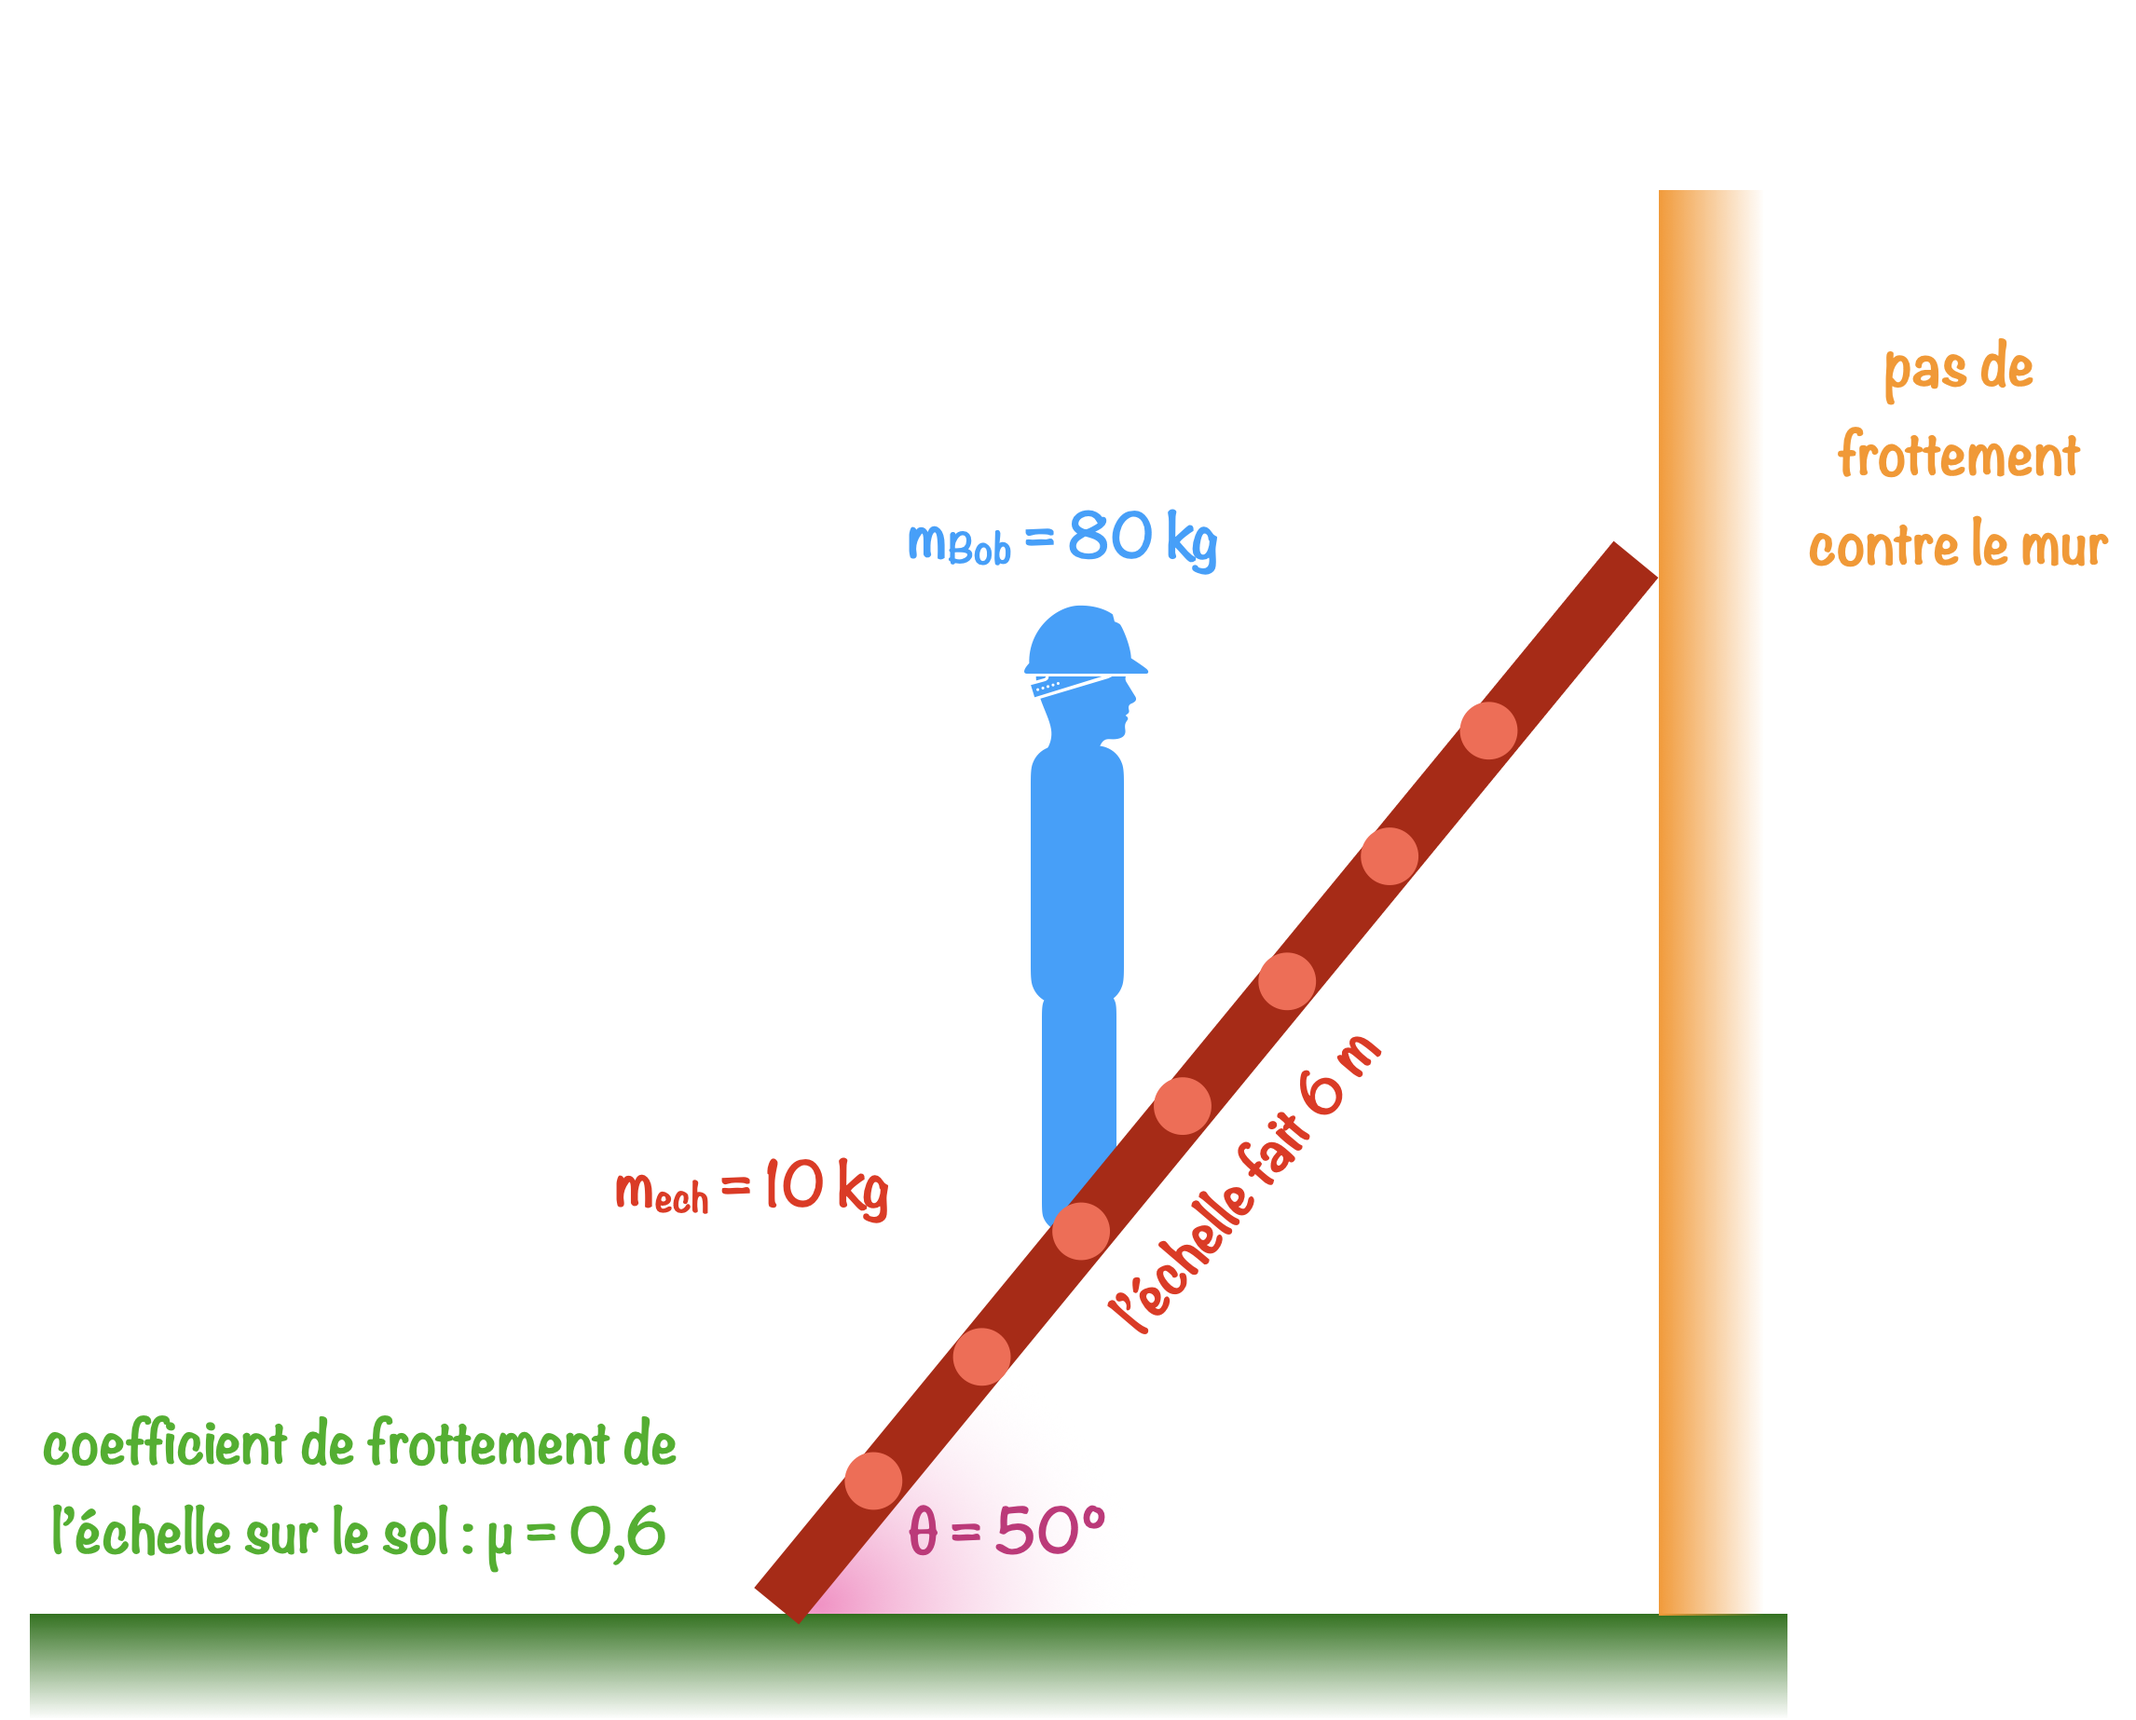
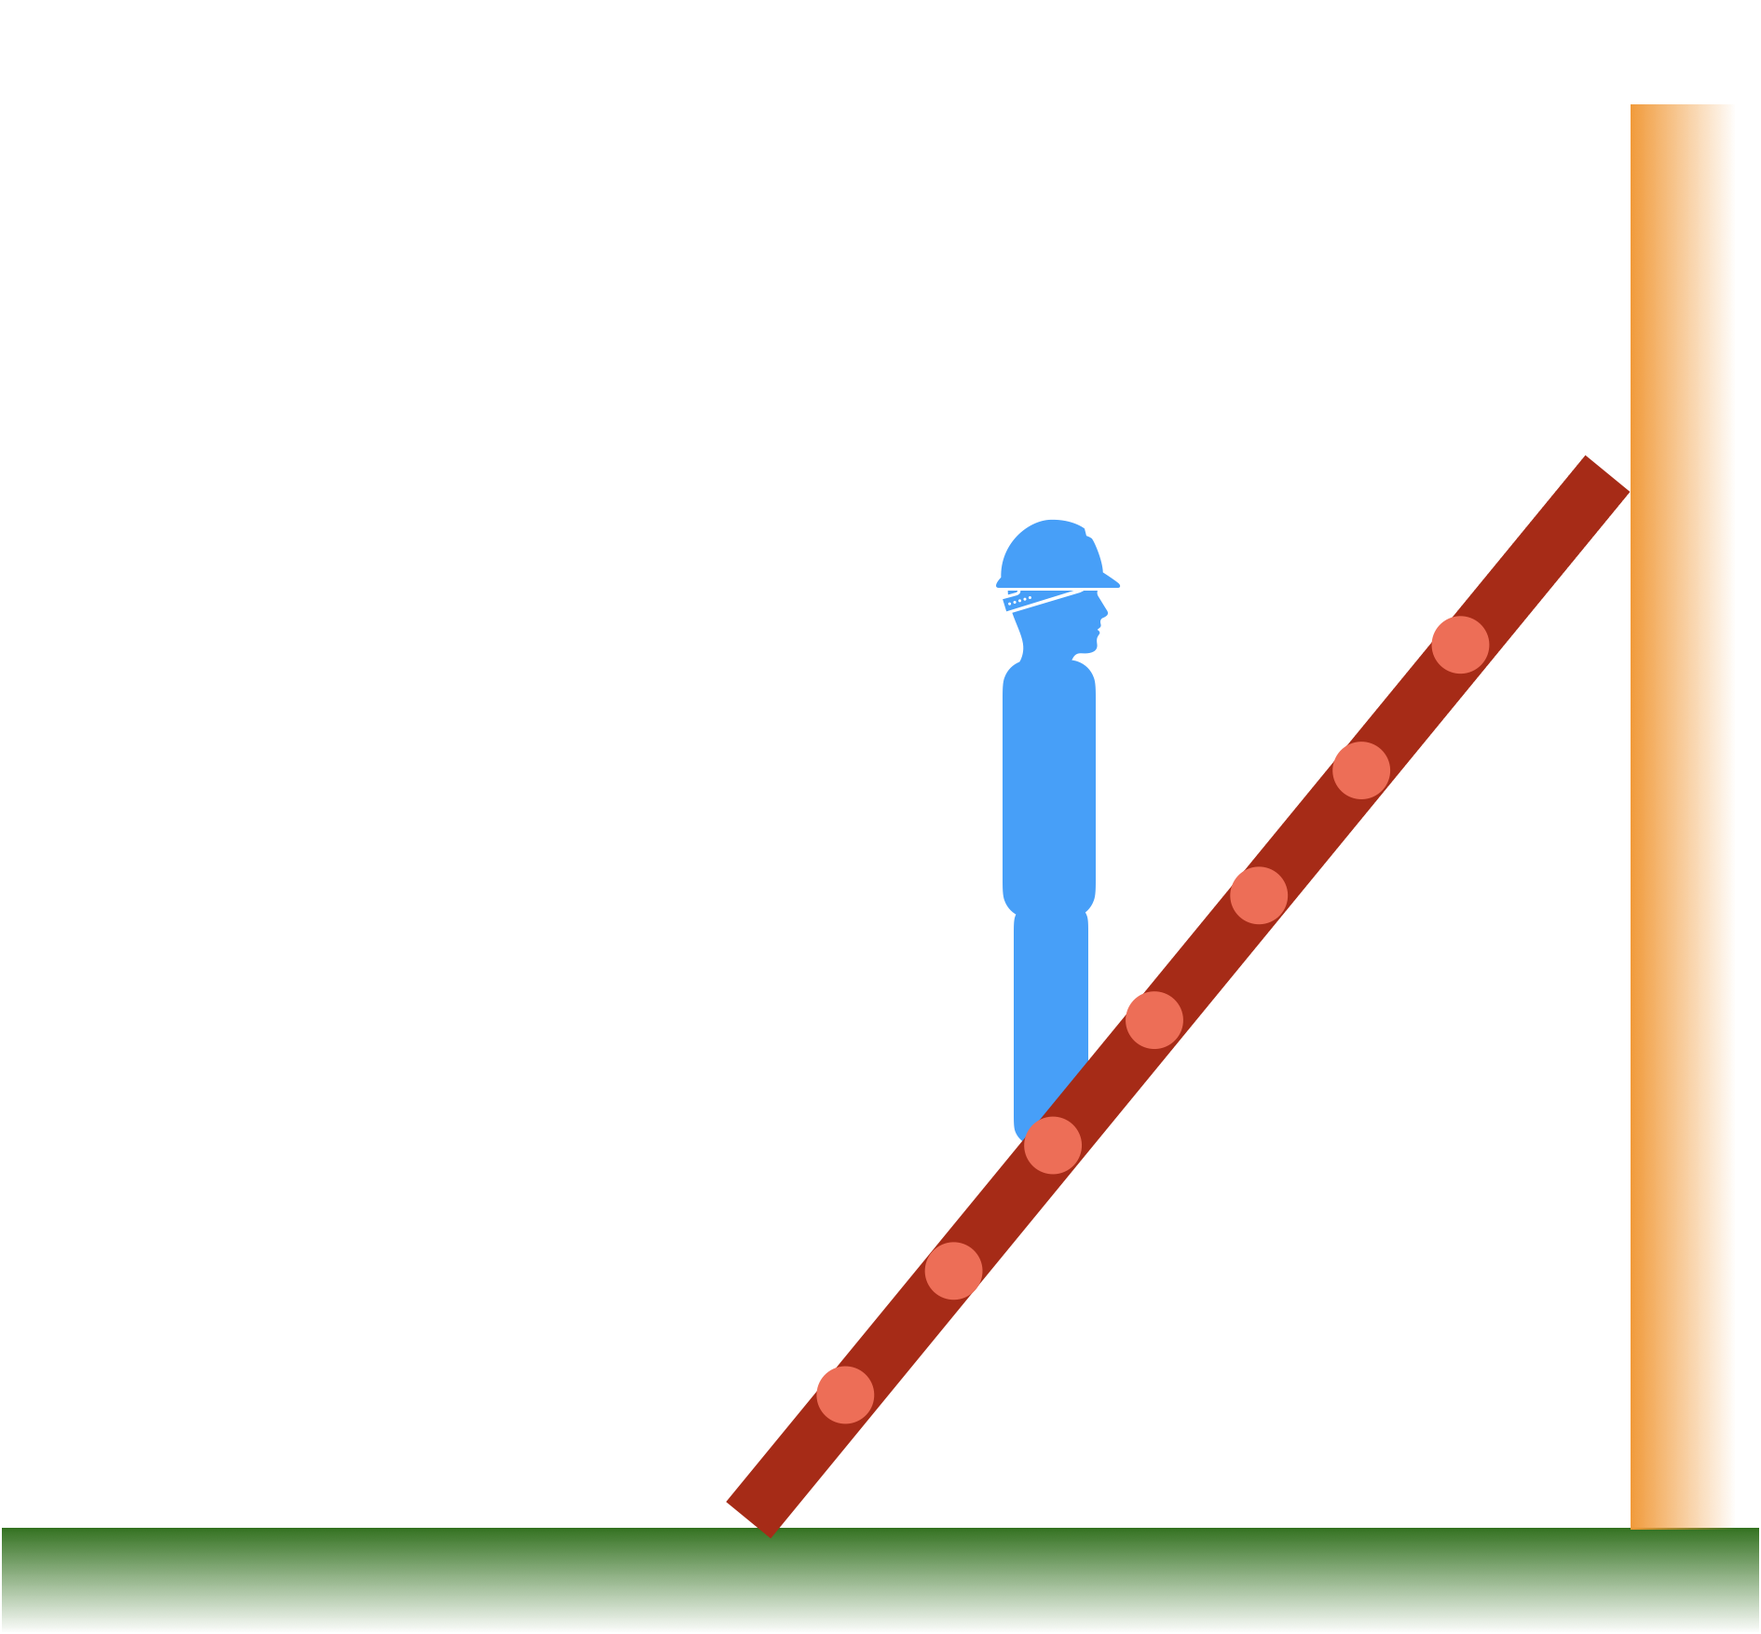
-

Changed region(s): [[0.0, 0.0616, 0.9989, 1.0], [0.281, 0.6773, 0.437, 0.7081]]

diff --git a/tsti/mecanique/index.html b/tsti/mecanique/index.html
@@ -324,8 +324,16 @@ Quelle est la masse de la planche ?</p>
       data-background-image="/pbechellesuite.png"
       data-background-size="contain"
       data-background-transition="concave">
+</section>
+<section data-noprocess data-shortcode-slide
+      data-background-image="/exobalance.png"
+      data-background-size="contain"
+      data-background-transition="concave">
+<h4 id="exercice-4--déterminer-son-centre-de-masse">Exercice 4 : déterminer son centre de masse</h4>
+<p><br><br><br><br><br><br><br><br><br></p>
+<p>Trouver sa masse et à quelle distance de ses pieds<br>se situe son centre de masse.</p>
 </section><section>
-<h4 id="défi-">Défi :</h4>
+<h4 id="défi">Défi</h4>
 <p>Qui est capable de toucher ses pieds<br>en ayant ses jambes contre un mur ?</p>
 </section>
 <section data-noprocess data-shortcode-slide
